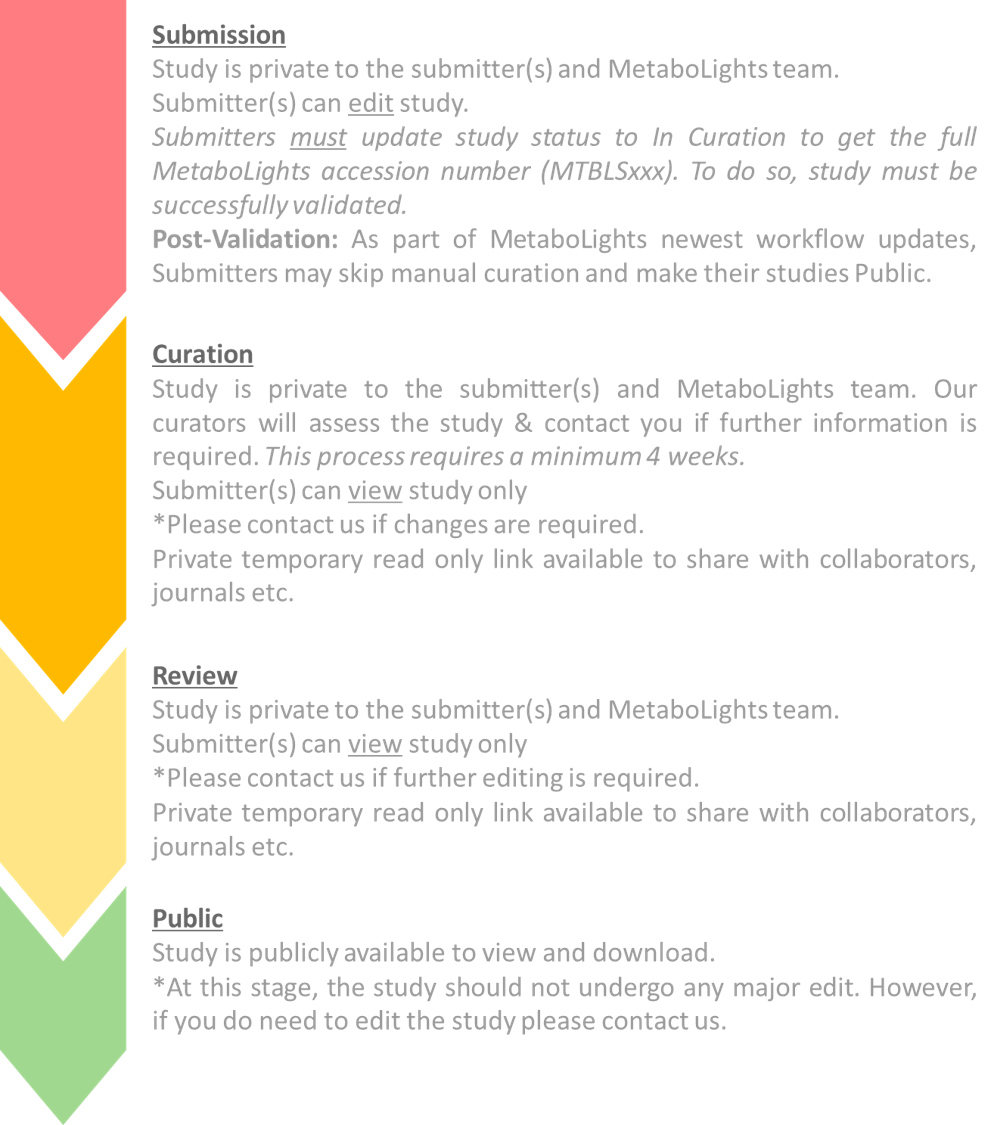
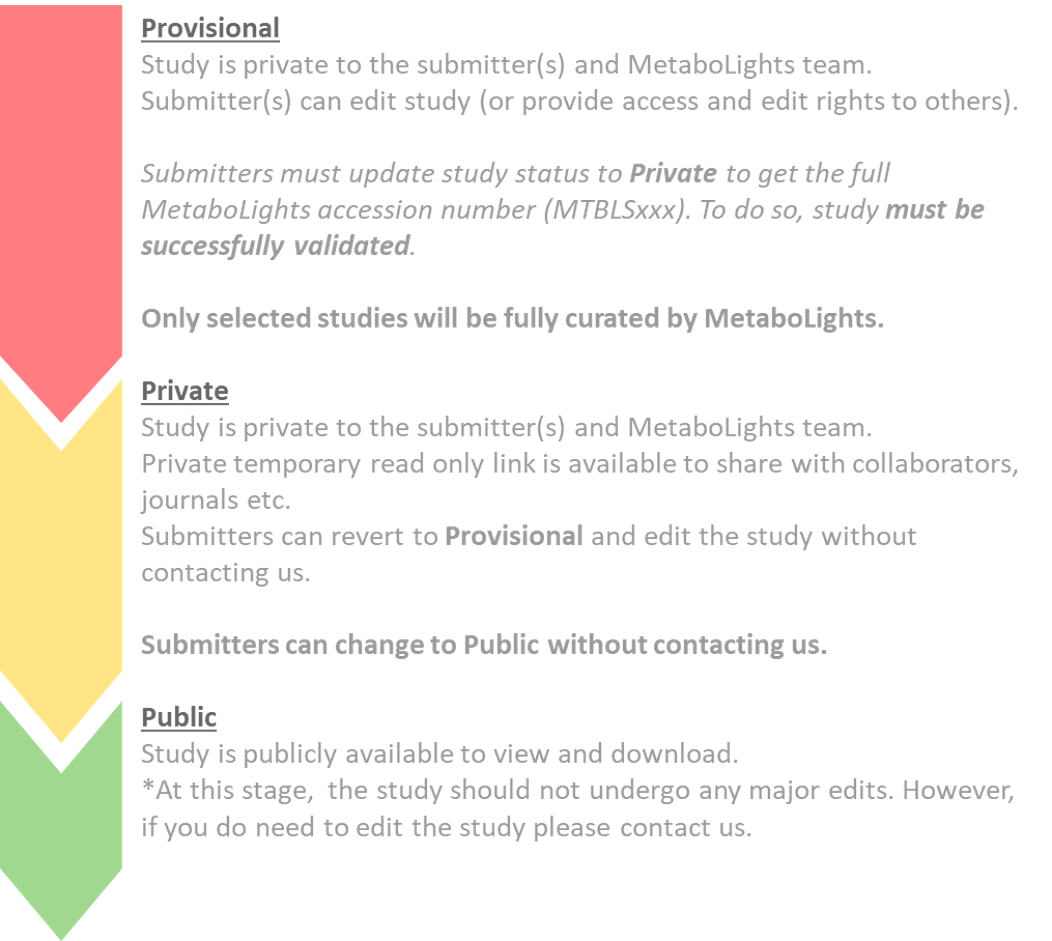
newworkflowupdates

Changed region(s): [[0.0, 0.0, 0.998, 0.9554], [0.0312, 0.9554, 0.0936, 1.0], [0.0, 0.9245, 0.0312, 0.9554]]

diff --git a/docs/index.md b/docs/index.md
@@ -114,7 +114,7 @@ Validation errors are evident in the information bar at the top of the study (if
 
 To promote your temporary submission request (REQxxx) to ‘Private’ and obtain a full MetaboLights study accession number (MTBLSxxx), select **Status** and change from 'Provisional' to ‘Private’. 
 
-![Submit](assets/images/NEW_GUIDES/QuickStartOverview_Submit.png)
+![Submit](assets/images/NEW_GUIDES/QuickStartOverview_Private.png)
 
 /// warning | Update release date before make your study Private
 If your study reaches 'Private' status, you can make it public at any time. MetaboLights will automatically release your dataset to the public upon notification of the corresponding publication. If the MetaboLights team selects your study for manual curation, it will become public once the curation is complete. Otherwise, the study will be made public automatically when the selected release date is reached.
@@ -149,7 +149,7 @@ We would recommend you to also include this information in a much abridged form 
 
 After studies which pass the new version of validation and have status promoted to ‘Private', private reviewer link will be available on the study page to share with journal editors, collaborators etc. Your study will be eligible to go public.
 
-![Validation Tab](assets/images/NEW_GUIDES/QuickStartOverview_Curation.png)
+![Validation Tab](assets/images/NEW_GUIDES/QuickStartOverview_ReviewerLink.png)
 
 **Note:** MetaboLights curation will be retained in certain cases. The process will take a minimum of 4 weeks, publication date cannot be less than this.
 
@@ -177,7 +177,7 @@ We would recommend you to also include this information in a much abridged form 
 
 ## Submission Process
 
-Overview of the 4 stages in the study submission process.
+Overview of the 3 stages in the study submission process.
 
 
 ![Process](assets/images/NEW_GUIDES/NewWorkflow.png){width=500}
@@ -206,7 +206,7 @@ If you have an existing account you will first be taken to My Studies where you 
 The Guided Submission Portal will take you through the steps to create your MetaboLights submission (study).
 A new temporary submission request will be automatically generated with a unique study identifier. 
 
-![Portal](assets/images/image12.png)
+![Portal](assets/images/NEW_GUIDES/GuidedSubmission.png)
 
 You can exit the guided submission at any time and the information you have added will be automatically saved. To re-enter the study in Guided Submission mode, simply go to My Studies and select the Guided Submission option below the study information.
 
